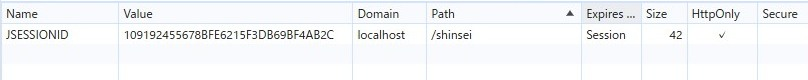
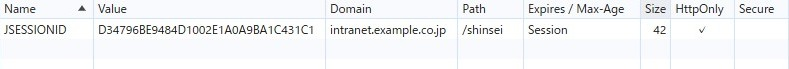
Cookie キャプチャをintranet.example.co.jpホストで撮り直し
Domainがlocalhostのままだと他のNetwork タブ画像（intranet.example.co.jp）と揃わないため、--cookies-only に --verify を対応させて同じホストで再撮影した。

diff --git a/public/images/SOURCES.md b/public/images/SOURCES.md
@@ -33,7 +33,7 @@
 | `screen-network-login-fail.jpg` | GET `http://intranet.example.co.jp:8080/shinsei/login` の document が失敗した Network タブ（hosts で 127.0.0.1 に向ける） |
 | `screen-network-approve-payload.jpg` | 申請くん POST `/shinsei/requests/15/approve`（山田、出張旅費、成功）の Network タブ。Payload の Form Data（`_csrf`）を切り出した画像 |
 | `screen-network-headers-detail.jpg` | 申請くん GET `/shinsei/requests` の Network タブ。Headers の Response headers と Request Headers を切り出した画像 |
-| `screen-application-cookies.jpg` | 申請くん GET `/shinsei/requests`（山田太郎、ログイン済み）の DevTools Application タブ。Cookies の `JSESSIONID` の行（Domain / Path / Expires / Size / HttpOnly / Secure）を切り出した画像 |
+| `screen-application-cookies.jpg` | 申請くん GET `http://intranet.example.co.jp:8080/shinsei/requests`（山田太郎、ログイン済み）の DevTools Application タブ。Cookies の `JSESSIONID` の行（Domain / Path / Expires / Size / HttpOnly / Secure）を切り出した画像 |
 
 ## 図のアイコン（インライン SVG）
 

diff --git a/CLAUDE.md b/CLAUDE.md
@@ -310,8 +310,10 @@ node shinsei-kun/scripts/capture-network.mjs
 Network タブと同じスクリプト・同じプロファイルを使う。Application タブへの切り替えと、Storage > Cookies > 対象オリジンの選択は、クリック位置を決め打ちできないため手動。スクリプトがダイアログで案内する。
 
 ```bash
-node shinsei-kun/scripts/capture-network.mjs --cookies-only
+node shinsei-kun/scripts/capture-network.mjs --cookies-only --verify
 ```
+
+`screen-application-cookies.jpg` は `intranet.example.co.jp:8080` で撮る（Cookie とセッションのレッスン本文が同じホスト名を使っているため）。hosts の設定は Network タブの節と同じ。
 
 ウィンドウ全体をまず `preserveUi` 付きで撮り、`crop-jpeg.ps1` で Cookies テーブル（`Name` 〜 `Secure` 列）だけを切り出す。左のツリーやアドレスバーは切ってよい（Network タブの Payload / Headers の切り出しと同じ扱い）。値が空の列（SameSite など）まで無理に含めない。
 
